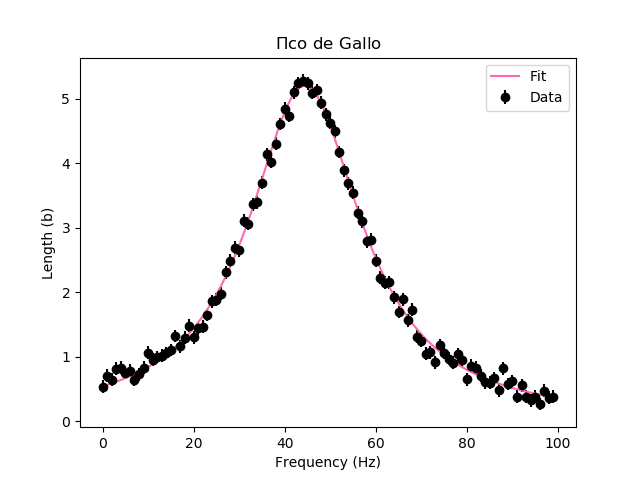
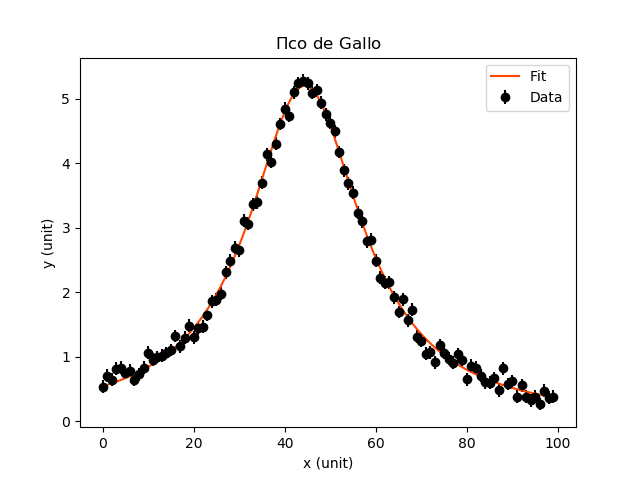
Modified Example 1 and Plotting Function

diff --git a/fitting.py b/fitting.py
@@ -445,7 +445,7 @@ def read_from_CSV(file_name, delim=',', columnar=True):
     file.close()
     return data
 
-def get_plot(x, y, err_x=None, err_y=None, fit=None, title=None, labels=None, data_style='ko', fit_style='b-',
+def draw_plot(x, y, err_x=None, err_y=None, fit=None, title=None, labels=None, data_style='ko', fit_style='b-',
              step=None, **kwargs):
     """
     Returns a plot object with the input settings. The 'style' parameters follow the abbreviations listed here:
@@ -468,7 +468,7 @@ def get_plot(x, y, err_x=None, err_y=None, fit=None, title=None, labels=None, da
     :param fit_style: Style for the fit curve. Blue line by default.
     :param step: The step size for the points on the curve. Can be ignored for linear fits, but impacts the apparent
         smoothness of the curve for other functions.
-    :return: The constructed plot object.
+    :return: The figure on which the plots were drawn.
     """
 
     # Error bar plot of the data
@@ -497,4 +497,4 @@ def get_plot(x, y, err_x=None, err_y=None, fit=None, title=None, labels=None, da
     # Show the legend
     plt.legend()
 
-    return plt
+    return plt.gcf()

diff --git a/examples/lorentzian/example_1.py b/examples/lorentzian/example_1.py
@@ -31,10 +31,10 @@ print("Location: {} +- {}".format(p[2], err_p[2]))
 # Convert the result to a fit function and plot the data
 fit = fixed_params(lorentzian, *p)
 labels = "x (unit)", "y (unit)"
-plot = get_plot(x, y, err_y=err_y, fit=fit, title=r"$\Pi$co de Gallo", labels=labels, color='hotpink')
+draw_plot(x, y, err_y=err_y, fit=fit, title=r"$\Pi$co de Gallo", labels=labels, color='orangered')
 
 # Save the plot programmatically.
-# fig.savefig('plot.png', dpi=fig.dpi)
+# plt.gcf().savefig('plot.png', dpi=plt.gcf().dpi)
 
 # Display the plot, with an interactive toolbar (for panning, saving, etc.) at the bottom.
-plot.show()
+plt.show()
